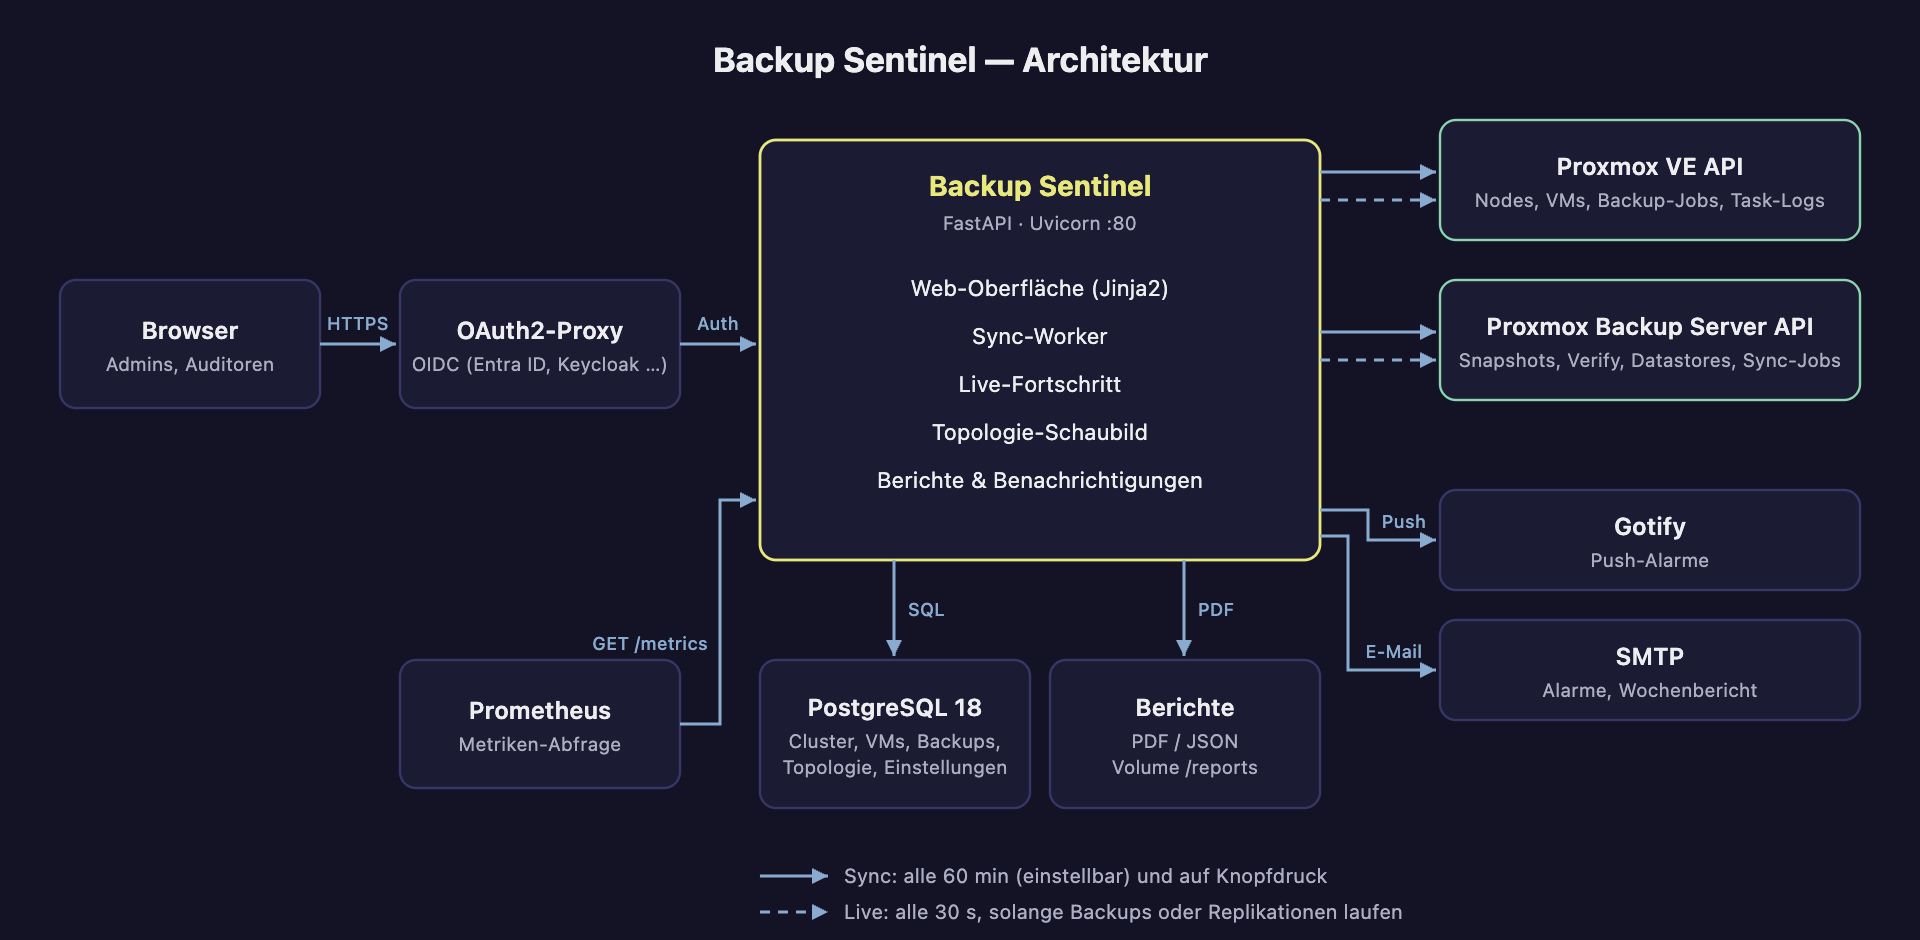
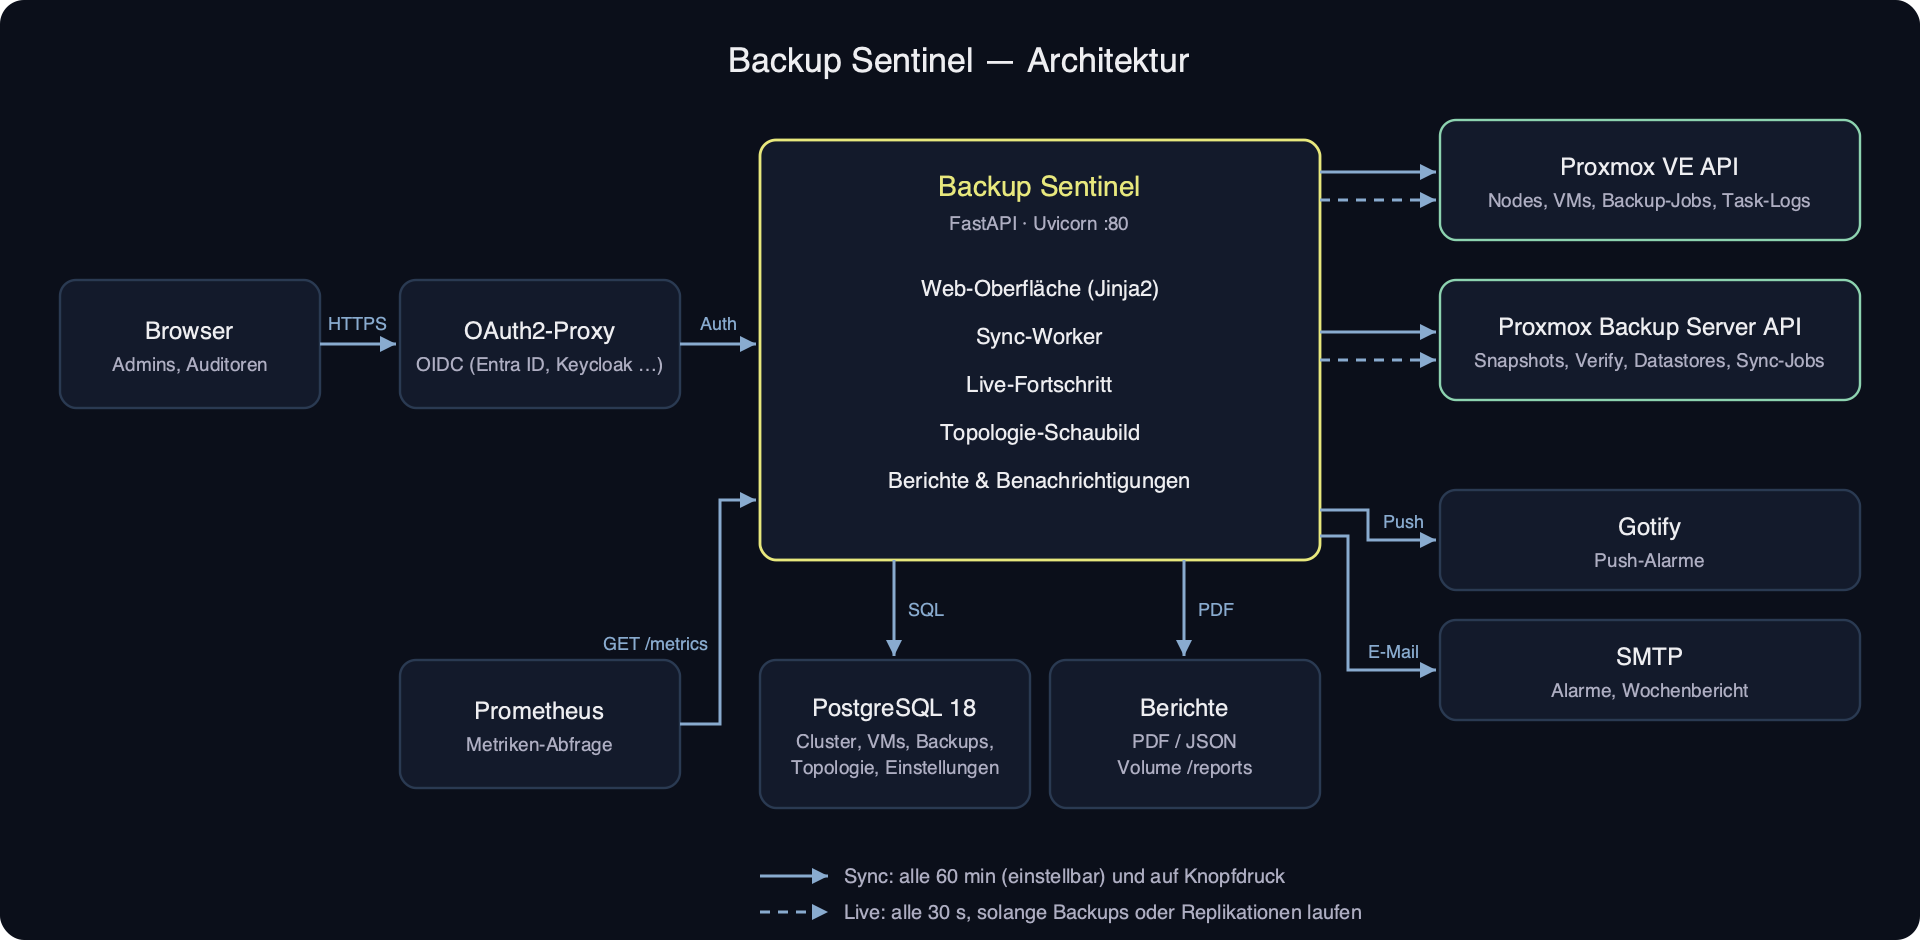
fix: architecture diagram dark mode colors + screenshot script improvements
Update architecture diagram surface colors (BG, PANEL, LINE) to match
the new deep-blue dark mode palette from dark_surfaces preset.
Screenshot script: random CDP port, configurable color scheme, error handling.

diff --git a/scripts/architecture_diagram.py b/scripts/architecture_diagram.py
@@ -7,7 +7,7 @@ The PNG copies (docs/architecture-*.png) are 2x renders of these SVGs.
 import sys
 from html import escape
 
-BG, PANEL, LINE, INK, MUTED = "#131325", "#1b1b34", "#363668", "#eeeef1", "#aeaec2"
+BG, PANEL, LINE, INK, MUTED = "#0b0f1a", "#131a2b", "#2a3a52", "#eeeef1", "#aeaec2"
 BLUE, YELLOW, GREEN = "#89abcf", "#e8e87d", "#8dd3b0"
 FONT = 'font-family="Inter,Segoe UI,system-ui,sans-serif"'
 
